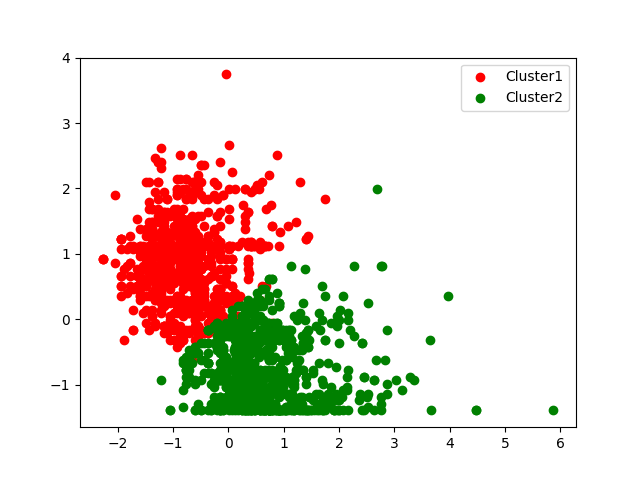
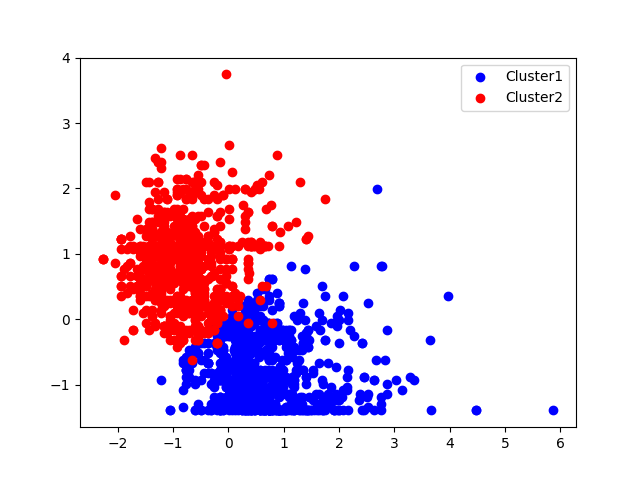
fixed colors

diff --git a/test.py b/test.py
@@ -68,7 +68,7 @@ print("--- %s seconds ---" % (time.time() - start_time))
 labels = kmeans.labels_
 
 #Visualization of clustering
-colors = 'rgbkcmy'
+colors = 'brkcmygr'
 for i in np.unique(clusters):
     plt.scatter(X_scaled[clusters==i,0],
                X_scaled[clusters==i,1],
